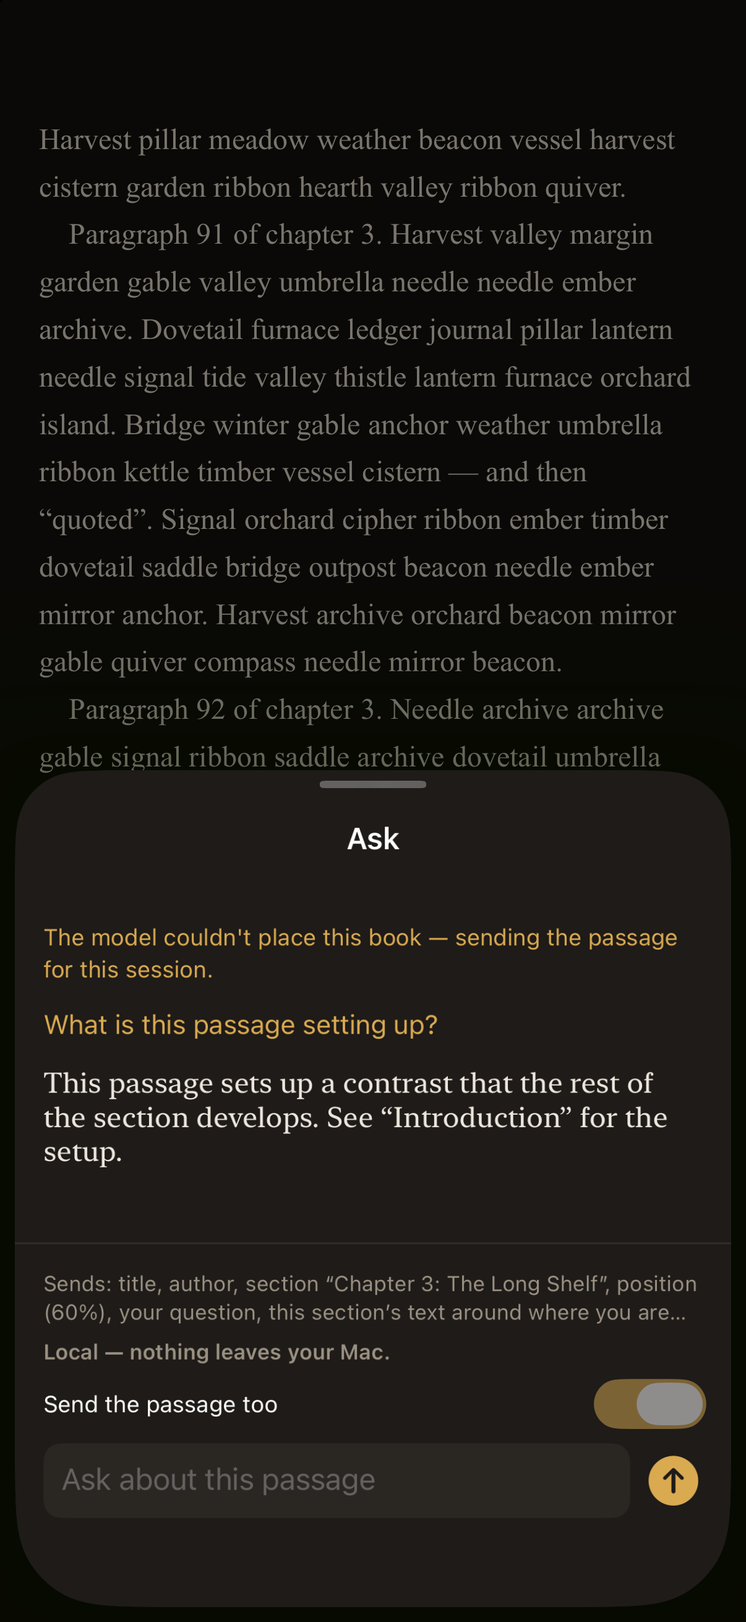
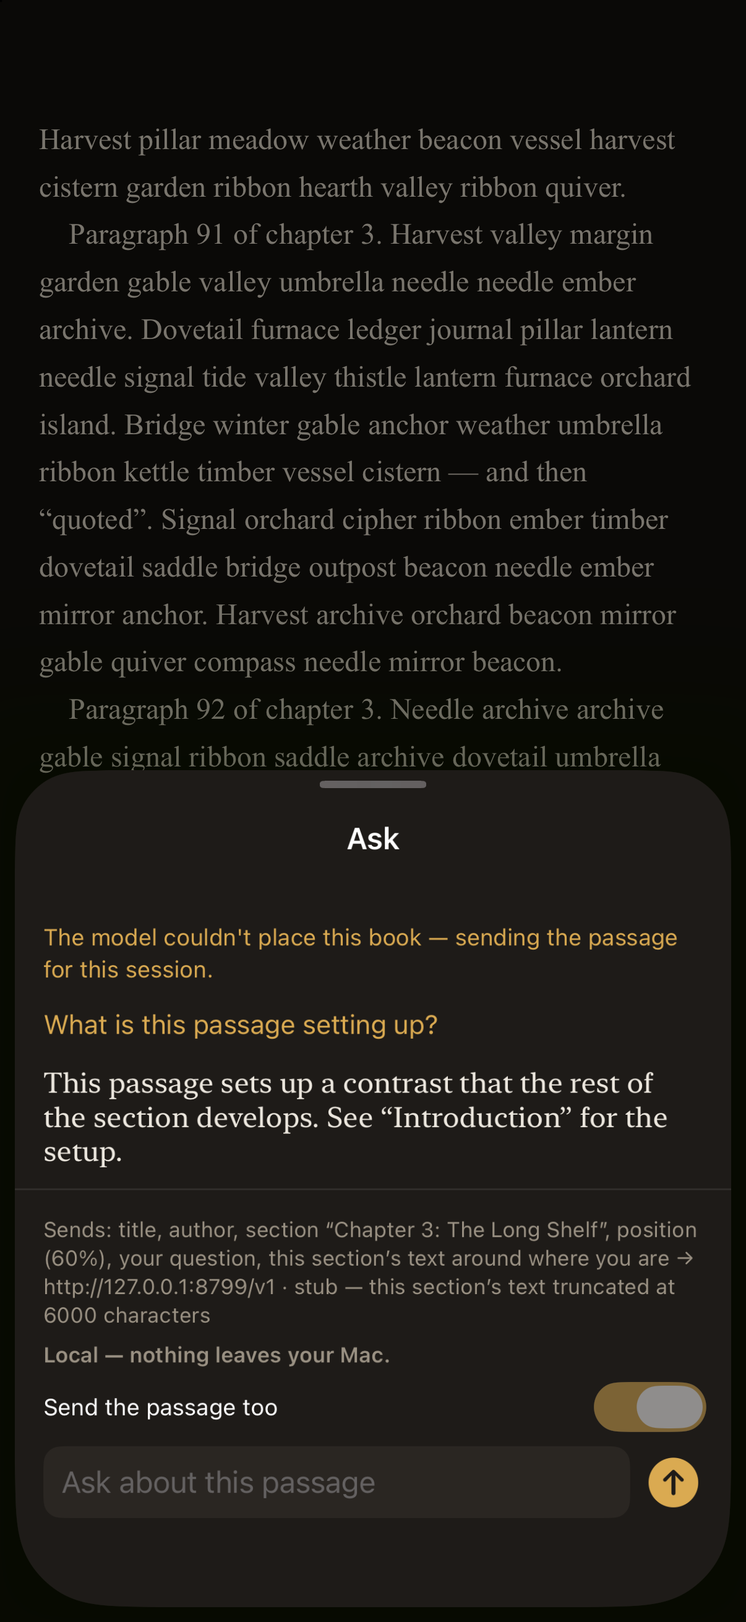
fix(ask): the extraction cannot spin, the disclosure shows whole, and the records say what the pass did not decide

Changed region(s): [[0.0614, 0.7414, 0.9511, 0.9268]]

diff --git a/Musaeum/Core/Reader/AskSession.swift b/Musaeum/Core/Reader/AskSession.swift
@@ -151,13 +151,22 @@ final class AskSession {
                 availability = .unavailable(reason)
                 return
             }
+            // A transient the contract names (`503 busy`): it learned nothing about the book, so —
+            // like a cancel — it leaves the verdict nil and the next open probes again.
+            if case .busy = error { return }
         } catch {
             // Dropped: unverified, and the sheet stays usable. (A cancel is handled below.)
         }
         // A cancelled consumer ends the stream cleanly, so reaching here proves nothing.
         if Task.isCancelled { return }
         verdict = landed
-        Probe.log("ask verdict=\(landed)")
+        Self.log("ask verdict=\(landed)")
+    }
+
+    /// The probe's readings only: nothing about a conversation is on disk in a normal run (AC24),
+    /// and `Probe.log` writes `Documents/probe.log`, so these lines exist only when a probe is driving.
+    private static func log(_ message: String) {
+        if Probe.isActive { Probe.log(message) }
     }
 
     // MARK: the disclosure line
@@ -179,7 +188,7 @@ final class AskSession {
                 if case let .disclosure(line) = event, generation == disclosureGeneration { disclosure = line }
             }
         } catch {
-            if !Task.isCancelled { Probe.log("ask preview failed: \(Self.sentence(error))") }
+            if !Task.isCancelled { Self.log("ask preview failed: \(Self.sentence(error))") }
         }
     }
 
@@ -256,7 +265,7 @@ final class AskSession {
                 failure = ownFailure
             }
         }
-        Probe.log(
+        Self.log(
             Task.isCancelled
                 ? "ask cancelled chars=\(chars)" : "ask answered chars=\(chars) failure=\(ownFailure ?? "none")")
     }
@@ -271,7 +280,7 @@ final class AskSession {
         let carriesText = mode == .probe || effective == .passage
         if carriesText, mode != .preview {
             // The offset the phone sent, for the probe's own record — numbers only, never the text.
-            Probe.log(
+            Self.log(
                 "ask offset=\(reader.section.offset.map(String.init) ?? "nil") units=\(reader.section.text?.utf16.count ?? 0) truncated=\(reader.section.truncated)"
             )
         }

diff --git a/Musaeum/Core/Reader/ReaderModel+Ask.swift b/Musaeum/Core/Reader/ReaderModel+Ask.swift
@@ -45,12 +45,27 @@ extension ReaderModel: AskContextProviding {
         // The navigator's href may carry a fragment or differ in encoding from the iterator's.
         let resource = location.href.removingFragment()
         var pieces: [SectionText.Piece] = []
-        for await element in content.sequence() {
-            if Task.isCancelled { return nil }
+        // The iterator, not `content.sequence()`: the sequence's `next()` swallows an error and
+        // calls itself again, and a resource whose parse failed (XHTML that is not valid UTF-8, in
+        // this resource or the next one we read into to find the section's end) fails the same
+        // way every time — so the loop body, and its cancellation check, would never run and
+        // `askContext()` would never return. A throw here ends the section with what we have.
+        let iterator = ElementIterator(content.iterator())
+        while !Task.isCancelled {
+            guard let element = await iterator.next() else { break }
             if !element.locator.href.removingFragment().isEquivalentTo(resource) { break }
             guard let block = element as? TextContentElement, let text = block.text, !text.isEmpty else { continue }
             pieces.append(SectionText.Piece(text: text, progression: element.locator.locations.progression))
         }
         return Task.isCancelled ? nil : pieces
     }
+}
+
+/// Readium's `ContentIterator` is not `Sendable`, and its `next()` is a nonisolated `async` call, which
+/// Swift 6 will not let the main actor make. This loop is the only thing that ever touches the
+/// iterator, one `next()` at a time, so the box says so. A throw becomes `nil`: the end of the section.
+private final class ElementIterator: @unchecked Sendable {
+    private let base: ContentIterator
+    init(_ base: ContentIterator) { self.base = base }
+    func next() async -> ContentElement? { try? await base.next() }
 }

diff --git a/Tests/MusaeumTests/AskEndpointLineTests.swift b/Tests/MusaeumTests/AskEndpointLineTests.swift
@@ -1,0 +1,34 @@
+import XCTest
+
+@testable import Musaeum
+
+final class AskEndpointLineTests: XCTestCase {
+    private let local = AskCapability(available: true, reason: nil, isLocal: true, host: "localhost:11434", model: "m")
+
+    private func disclosure(host: String, isLocal: Bool) -> AskDisclosure {
+        AskDisclosure(
+            text: "Sends: title", members: ["title"], rung: .pointer, windowed: false, truncated: [],
+            host: host, isLocal: isLocal, model: "m")
+    }
+
+    func testBeforeAnyDisclosureTheCapabilitySpeaks() {
+        let line = AskEndpointLine.make(disclosure: nil, capability: local)
+        XCTAssertEqual(line, AskEndpointLine(isLocal: true, host: "localhost:11434"))
+        XCTAssertEqual(line.text, "Local — nothing leaves your Mac.")
+    }
+
+    func testADisclosureOverridesAStaleCapability() {
+        // The Mac's model was switched to a hosted endpoint after the sheet's first health read.
+        let line = AskEndpointLine.make(
+            disclosure: disclosure(host: "api.example.com", isLocal: false), capability: local)
+        XCTAssertEqual(line, AskEndpointLine(isLocal: false, host: "api.example.com"))
+        XCTAssertEqual(line.text, "Remote — api.example.com receives this.")
+    }
+
+    func testTheOtherWayRoundToo() {
+        let remote = AskCapability(available: true, reason: nil, isLocal: false, host: "api.example.com", model: "m")
+        let line = AskEndpointLine.make(disclosure: disclosure(host: "127.0.0.1:8799", isLocal: true), capability: remote)
+        XCTAssertTrue(line.isLocal)
+        XCTAssertEqual(line.host, "127.0.0.1:8799")
+    }
+}

diff --git a/Musaeum/Features/Reader/AskSheet.swift b/Musaeum/Features/Reader/AskSheet.swift
@@ -111,15 +111,15 @@ struct AskSheet: View {
     private func composer(_ capability: AskCapability) -> some View {
         VStack(alignment: .leading, spacing: 8) {
             if let line = session.disclosure {
+                // The Mac's own sentence, whole: it names the endpoint and model, which are the point.
                 Text(line.text).font(.caption).foregroundStyle(Palette.muted)
+                    .fixedSize(horizontal: false, vertical: true)
             }
-            Text(
-                capability.isLocal
-                    ? "Local — nothing leaves your Mac."
-                    : "Remote — \(capability.host) receives this."
-            )
-            .font(.caption.weight(.semibold))
-            .foregroundStyle(capability.isLocal ? Palette.muted : Palette.gold)
+            let endpoint = AskEndpointLine.make(disclosure: session.disclosure, capability: capability)
+            Text(endpoint.text)
+                .font(.caption.weight(.semibold))
+                .foregroundStyle(endpoint.isLocal ? Palette.muted : Palette.gold)
+                .fixedSize(horizontal: false, vertical: true)
 
             Toggle(
                 "Send the passage too",

diff --git a/Tests/MusaeumTests/AskSessionTests.swift b/Tests/MusaeumTests/AskSessionTests.swift
@@ -182,6 +182,20 @@ final class AskSessionTests: XCTestCase {
         guard case .ready = session.availability else { return XCTFail("the sheet should stay usable") }
     }
 
+    func testABusyProbeIsNotAVerdictSoTheNextOpenProbesAgain() async {
+        let (session, backend, _) = make()
+        backend.thrown = ClientError.busy(retryAfter: 1)
+        await session.open()
+        XCTAssertNil(session.verdict, "a transient refusal learned nothing about the book")
+        guard case .ready = session.availability else { return XCTFail("the sheet should stay usable") }
+
+        backend.thrown = nil
+        backend.script = { $0.mode == .probe ? [.verdict(.strong), .done(.stop)] : [.done(.stop)] }
+        await session.open()
+        XCTAssertEqual(backend.requests(.probe).count, 2)
+        XCTAssertEqual(session.verdict, .strong)
+    }
+
     func testAnAIUnavailableDuringTheProbeEndsAvailability() async {
         let (session, backend, _) = make()
         backend.thrown = ClientError.aiUnavailable("No model set")

diff --git a/Musaeum/Core/Reader/AskEndpointLine.swift b/Musaeum/Core/Reader/AskEndpointLine.swift
@@ -1,0 +1,16 @@
+/// Where the next send goes, as the sheet's *Local / Remote* line reads it.
+///
+/// The Mac's `disclosure` events carry the endpoint every time (`host`, `isLocal`), and the Mac's
+/// model setting can change while the sheet lives, so the freshest disclosure wins; the capability
+/// (one `/api/health` read at first open) only speaks before any disclosure has arrived.
+struct AskEndpointLine: Equatable {
+    let isLocal: Bool
+    let host: String
+
+    static func make(disclosure: AskDisclosure?, capability: AskCapability) -> AskEndpointLine {
+        if let disclosure { return AskEndpointLine(isLocal: disclosure.isLocal, host: disclosure.host) }
+        return AskEndpointLine(isLocal: capability.isLocal, host: capability.host)
+    }
+
+    var text: String { isLocal ? "Local — nothing leaves your Mac." : "Remote — \(host) receives this." }
+}

diff --git a/Tests/MusaeumTests/ContractDecodeTests.swift b/Tests/MusaeumTests/ContractDecodeTests.swift
@@ -214,8 +214,8 @@ final class ContractDecodeTests: XCTestCase {
         XCTAssertEqual(book.shelves, ["b2c3d4e5-6f70-4182-93a4-b5c6d7e8f901"])
     }
 
-    /// **The one deliberate exception to the always-present rule** (invariant 4,
-    /// and D11 names it): a pre-shelves Mac omits `shelves`, and a required read
+    /// **The first of three deliberate exceptions to the always-present rule**
+    /// (invariant 4 names all three; D11 names this one): a pre-shelves Mac omits `shelves`, and a required read
     /// would take the whole library down over a member the reader never sees.
     /// Absent reads as `[]`; so does an explicit `null` — both mean *this Mac
     /// reports no shelves*. Every other member's absence still throws, which the

diff --git a/Musaeum/Core/API/ContractModels.swift b/Musaeum/Core/API/ContractModels.swift
@@ -64,7 +64,7 @@ struct StrictObject {
     func bool(_ key: String) throws -> Bool { try value(key, as: Bool.self) }
     func strings(_ key: String) throws -> [String] { try value(key, as: [String].self) }
 
-    /// **The one deliberate exception to the always-present rule (invariant 4).**
+    /// **The first of three deliberate exceptions to the always-present rule (invariant 4).**
     /// `shelves` is absent on a Mac older than the shelf slice: the member is not
     /// sent at all, and a required read would throw — taking the whole library
     /// down over a field the reader never sees. Absent and `null` both read as

diff --git a/docs/evidence/ask/README.md b/docs/evidence/ask/README.md
@@ -4,7 +4,7 @@ What a simulator run against a real Mac said about the Ask sheet, with the stub'
 
 ## Setup
 
-- This repo: branch `phone-ask-ios`, on `79eb7a5` plus the two-file fix described under *A defect the pass found* (`ReaderScreen.swift`, `AskSession.swift`).
+- This repo: branch `phone-ask-ios`, on `79eb7a5` plus the fixes described under *A defect the pass found* and *The final-review fix wave* (the frames `ask-weak`, `ask-weak-at-060` and `ask-badutf8` were taken after the second; the others before it).
 - The Mac: `../musaeum-macos` at `1483988`, clean tree, run as `env -u ELECTRON_RUN_AS_NODE MUSAEUM_USER_DATA=<probe profile> npm run dev` on the isolated probe profile (`rest_api_port` 8789, bound to the tailnet address). The owner's packaged app (port 8788) was never touched.
 - The stand-in model: `scripts/ask-stub.mjs` on `127.0.0.1:8799`; the profile's `app_config` carries `ai_base_url = http://127.0.0.1:8799/v1` and `ai_model = stub` (the real keys are `ai_base_url`, `ai_model`, `ai_api_key`, from `electron/main/services/ai.ts`). The stub recognises the probe by the Mac's own system message (`RECALL: <yes|no>` in `shared/ask/ask-context.ts`) and replies in what `shared/ask/recall.ts` `parseProbe` reads.
 - The books: **synthetic**, from `make-test-book.py` (numbered paragraphs so a paragraph's true position is a lookup; generated text, not taken from any book). *The Ledger of Small Hours* has five chapters of 30,100 / 16,077 / 60,072 / 22,047 / 12,439 UTF-16 units. The second book (the Mac's ISBN hydration retitled it *The three voices of poetry*) has one 230,245-unit chapter, for the cap.
@@ -14,9 +14,10 @@ What a simulator run against a real Mac said about the Ask sheet, with the stub'
 
 | Run | Frame | What it shows | Decides |
 | --- | --- | --- | --- |
-| `ask-weak` (`STUB_RECALL=weak`) | `ask-weak.png` | Sheet over chapter 1: the gold notice *The model couldn't place this book — sending the passage for this session*, the question, the canned answer, the Mac's disclosure line *Sends: title, author, section "Chapter 1: The Quay", position (0%), your question, this section's text around where you are → http://…* (cut after two lines), *Local — nothing leaves your Mac.*, the passage toggle on. Log: `ask verdict=weak`. Stub: the probe request has **no section text**; the ask request carries 13 paragraphs (1–13). | AC20, AC21: pass |
-| `ask-weak-at-060` | `ask-weak-at-060.png` | Same, reader at 60% (chapter 3, offset 44,771). Stub: the ask request's text opens in the tail of paragraph 90 and runs paragraphs 91–102, i.e. **text around the reader's position**, not the start of the section. | AC21: pass |
-| `ask-unknown` (`STUB_RECALL=unknown`) | `ask-unknown.png` | Grey notice *Unverified — answers about this book are reconstructed, not recalled.*, the disclosure line has no passage member, the toggle is off. Stub: **neither request contains section text**. | AC22: pass |
+| `ask-weak` (`STUB_RECALL=weak`) | `ask-weak.png` | Sheet over chapter 1: the gold notice *The model couldn't place this book — sending the passage for this session*, the question, the canned answer, the Mac's disclosure line *Sends: title, author, section "Chapter 1: The Quay", position (0%), your question, this section's text around where you are → http://127.0.0.1:8799/v1 · stub — this section's text truncated at 6000 characters*, shown whole over three lines (retaken after the wrap fix; the earlier frame cut it after two lines and lost the endpoint), *Local — nothing leaves your Mac.*, the passage toggle on. Log: `ask verdict=weak`. Stub: the probe request has **no section text**; the ask request carries 13 paragraphs (1–13). | AC20: pass (the Mac's line, whole, before any send). AC21: **partial** — observed live: a weak verdict puts the passage rung and its notice on the sheet and the passage in the ask request; unit-tested only: the override switch (it cannot lower a weak verdict, it can add the passage on a strong one), a highlight travelling verbatim, and incremental rendering of the stream (a frame taken after a wait cannot show it) |
+| `ask-weak-at-060` | `ask-weak-at-060.png` | Same, reader at 60% (chapter 3, offset 44,771). Stub: the ask request's text opens in the tail of paragraph 90 and runs paragraphs 91–102, i.e. **text around the reader's position**, not the start of the section. The disclosure line wraps to four lines and the input stays on screen (retaken after the wrap fix). | AC21 (passage around the position): pass; the rest of AC21 as above |
+| `ask-unknown` (`STUB_RECALL=unknown`) | `ask-unknown.png` | Grey notice *Unverified — answers about this book are reconstructed, not recalled.*, the disclosure line has no passage member, the toggle is off. Stub: **neither request contains section text**. | AC22: **partial** — observed live: the unverified notice, and no section text reaching the model at the pointer rung; unit-tested only: the override adding the passage on demand |
+| `ask-badutf8` (a book whose second chapter is Latin-1 bytes, not UTF-8) | `ask-badutf8.png` | The reader is on chapter 1 (`One`); the sheet probes, answers and draws normally, and the app sits at 0% CPU after the run. Log: `units=94` — the section is the first chapter's own text, ended where Readium's parse of the *next* resource failed. This is the resource that made `content.sequence()` spin; the iterator is driven directly now (see below). A run on the pre-fix code was **not** taken, so this shows the fixed code completing, not the old code hanging. | the extraction cannot hang on an unparsable next resource: pass (live); the hang itself: reasoned from Readium's source |
 | `ask-strong` (`STUB_RECALL=strong`, opening = *Needle ember tide copper weather orchard lattice anchor tide umbrella timber*) | `ask-strong.png` | No notice at all; disclosure is pointer-only. Log: `ask verdict=strong`. Stub: no section text in either request. | pointer-only on a strong verdict: pass |
 | `ask-off` (the profile with `ai_model` deleted) | `ask-off.png` | *Ask is not available* with the Mac's own reason *No model set — add one in Settings (it has to exist on the endpoint).*; the book's page is drawn behind, unaffected. Stub: no request. | AC25 (off): pass |
 | `ask-old` (a 15-line proxy on :8790 that drops `ai` from `/api/health`) | `ask-old.png` | *This Mac's Musaeum is too old to answer questions — update it.* No crash; page drawn. | the too-old state: pass |
@@ -60,4 +61,12 @@ The largest error is **899 UTF-16 units, the mean absolute error 501**, against 
 
 ## Not verified
 
-A real model (the stub's answer is canned); a real tap on **Ask**, on Send, or on a *Go to* link; a selection surviving the chrome-raising tap; a backgrounded app ending its stream; the 10-second body clock on a 200,000-character section over a slow link (the contract refuses it as a 400 indistinguishable from a malformed one, and the client has no handling — `tasks.md`); the disclosure line's wrap in the medium detent, where it is cut after two lines in the frames (a layout question for the owner's frame).
+A real model (the stub's answer is canned); a real tap on **Ask**, on Send, or on a *Go to* link; a selection surviving the chrome-raising tap; a backgrounded app ending its stream; the 10-second body clock on a 200,000-character section over a slow link (the contract refuses it as a 400 indistinguishable from a malformed one, and the client has no handling — `tasks.md`); the disclosure line at other detents and Dynamic Type sizes (it wraps whole in the medium detent, photographed after the fix).
+
+## The final-review fix wave
+
+- **The extraction cannot spin.** `ReaderModel+Ask.swift` drove `content.sequence()`, whose iterator swallows any error and calls itself again; a resource whose parse fails (here: not valid UTF-8, in the current resource or the next one read to find the section's end) fails identically on every retry, so `askContext()` never returned and `probing` stayed true. It now drives `content.iterator()` directly, and a throw ends the section with the pieces so far. Verified live by `ask-badutf8` (completes, `units=94`).
+- **The disclosure line is whole.** The line was cut after two lines in the first frames, so it was not the Mac's sentence *verbatim*. It now wraps fully (`fixedSize` vertical, no line limit); `ask-weak.png` and `ask-weak-at-060.png` were retaken and read: the whole line, endpoint and model included, is on screen over three and four lines, the input still visible. The `pos-*` frames were not retaken (their subject is the page text; their disclosure line is still the cut one).
+- **Local/Remote follows the disclosure.** The line used the capability read once at first open; it now reads the latest disclosure's `isLocal`/`host` (`AskEndpointLine`, with three unit cases) and falls back to the capability only before one arrives. Unit-tested only: the live stub is always local, so a switch to a remote endpoint mid-session was not photographed.
+- **Ask log lines only when a probe is driving.** `Probe.log` writes `Documents/probe.log`; the Ask lines now go through `Probe.isActive`, so a normal run writes nothing about a conversation to disk (AC24). Reasoned from the code and covered by the build; no live run in a non-probe launch was taken.
+- **A `503 busy` probe is not a verdict.** It leaves the verdict nil so the next open probes again (a new unit case); `unreachable` stays `unknown`.

diff --git a/AGENTS.md b/AGENTS.md
@@ -43,7 +43,7 @@ TAG=chrome READER=chrome BOOK=<book id> ./scripts/live-probe.sh   # the reader's
 TAG=ask READER=ask ASK='What is this passage setting up?' BOOK=<book id> ./scripts/live-probe.sh   # the Ask sheet over the open book (needs the Mac with a model set, or `node scripts/ask-stub.mjs` as the model — `STUB_RECALL=weak|unknown|strong`); its evidence is `docs/evidence/ask/`
 ```
 
-**The probe profile** the last three slices measured against is `~/.hermes/profiles/dev/cache/scratch/ios-probe` (its own `musaeum.db`, `library_root` pointed at its own folder, a `rest_api_token`, and `rest_api_port` **8789**, because the owner's packaged app holds 8788; **re-seeded 2026-10-14** after scratch was pruned — `MUSAEUM_REPO=<the Mac checkout> PROBE_BIND=<the tailnet address> bash scripts/seed-probe-profile.sh` gave the 8 seeded one-page EPUBs, plus the two synthetic Ask books, **10 books** in the library once hydrated — the earlier 13-book profile, with the rows upload and smoke runs left, is gone, plus `ai_base_url`/`ai_model` rows pointing at `scripts/ask-stub.mjs`) — and scratch is pruned when idle, so if it is gone, rebuild it from the header of `scripts/live-probe.sh` rather than hunting for it: the seeding is six commands and the imports hydrate in about a minute. The Mac app is started with `env -u ELECTRON_RUN_AS_NODE MUSAEUM_USER_DATA=<that profile> npm run dev` from `../musaeum` (`ELECTRON_RUN_AS_NODE` is set in this shell and makes Electron run as plain Node — no window, no app).
+**The probe profile** the last three slices measured against is `~/.hermes/profiles/dev/cache/scratch/ios-probe` (its own `musaeum.db`, `library_root` pointed at its own folder, a `rest_api_token`, and `rest_api_port` **8789**, because the owner's packaged app holds 8788; **re-seeded 2026-10-14** after scratch was pruned: `MUSAEUM_REPO=<the Mac checkout> PROBE_BIND=<the tailnet address> bash scripts/seed-probe-profile.sh` gave the 8 seeded one-page EPUBs, plus the two synthetic Ask books from `docs/evidence/ask/make-test-book.py` and a small bad-encoding one, so the library held 10 and then 11 books once hydrated; the earlier 13-book profile (with the rows the upload and smoke runs left) is gone; `app_config` also holds `ai_base_url` and `ai_model` pointing at `scripts/ask-stub.mjs`) — and scratch is pruned when idle, so if it is gone, rebuild it from the header of `scripts/live-probe.sh` rather than hunting for it: the seeding is six commands and the imports hydrate in about a minute. The Mac app is started with `env -u ELECTRON_RUN_AS_NODE MUSAEUM_USER_DATA=<that profile> npm run dev` from `../musaeum` (`ELECTRON_RUN_AS_NODE` is set in this shell and makes Electron run as plain Node — no window, no app).
 
 **The probe needs two things, and the script refuses to guess either:** `$ROOT/token.txt` and `$ROOT/base.txt` (the server binds the **tailnet** address, so `127.0.0.1` answers nothing — `lsof -nP -iTCP:8788 -sTCP:LISTEN` says which). A run with no base URL comes up unconfigured, logs nothing, and reads as "the probe found nothing" — which is why it is a hard failure now.
 
@@ -53,7 +53,7 @@ TAG=ask READER=ask ASK='What is this passage setting up?' BOOK=<book id> ./scrip
 
 **Two traps slice 2's write runs paid for, and both cost more than one attempt.** (a) **The Mac writes reading state *after* its listener closes** — stopping the dev app by its listener pid frees `8788` first and runs the quit handshake second, which flushes reading state into the profile's SQLite *and* the book's `metadata.json`; the next startup rebuilds the row from the derived store as well. An edit to the probe profile's row made in that window is silently overwritten and the old value comes back, which is a run that looks green and decides nothing. Edit either once `pgrep -f 'electron/dist/Musaeum.app'` is **empty** (not merely `lsof` clean), or **after the Mac is up and immediately before the run**. (b) **A row equal to the phone's position decides nothing** — a report that "succeeds" against the Mac's own number moves no position, only a clock. Set the row to a *different* number first, with a stale CFI beside it so the D5 blanking has something to remove. Both are written up in `docs/evidence/slice2/README.md`.
 
-Expected on the committed tree: build **exit 0**, no warnings in this repo's own files beyond the Xcode 27 `main actor-isolated` ones in six older test files; test **exit 0, 334 cases, 0 failures across 35 suites** (measured 2026-10-14 on the phone-ask tree: slice 8's 246 across 29, plus the ask client's own `+88` — six new suites, `AskContractTests` 11, `AskClientTests` 14, `AskSessionTests` 27, `AskCitationsTests` 5, `SSEParserTests` 10 and `SectionTextTests` 19 (`+86`), and `+2` more in one existing suite, `ClientTests` (17 to 19); 86 + 2 = 88, and 29 + 6 = 35; slice 8's own `+28` was Task 1 `+8`, Task 2 `+9`, Task 3 `+8`, the `Retry-After` guard `+3`); and `../musaeum/scripts/api-smoke.sh --profile <the probe profile>` against the same server **82 passed, 1 failed on 2026-10-09, measured on a one-book scratch profile and not the expected value for a multi-book probe profile (13 books on 2026-10-09, 10 on 2026-10-14) (where the check has two books to page and should pass) — the one failure is the pre-existing `page carries exactly limit rows` check, which needs at least two books before the smoke's own upload; the reflow section is green** (it needs `--profile` or `MUSAEUM_USER_DATA` — with neither it exits before running a check). **Reconcile a moved total against the cases you actually added** — slice 5 moved it by exactly its own 19, and the header's slice by exactly its own 11.
+Expected on the committed tree: build **exit 0**, no warnings in this repo's own files beyond the Xcode 27 `main actor-isolated` ones in six older test files; test **exit 0, 338 cases, 0 failures across 36 suites** (measured 2026-10-14 after the final-review wave; the phone-ask tree had measured 334 across 35, which the wave moved by `+4`: `AskEndpointLineTests` 3 as a new suite and one busy-probe case in `AskSessionTests`, now 28. The 334 was: slice 8's 246 across 29, plus the ask client's own `+88` — six new suites, `AskContractTests` 11, `AskClientTests` 14, `AskSessionTests` 27, `AskCitationsTests` 5, `SSEParserTests` 10 and `SectionTextTests` 19 (`+86`), and `+2` more in one existing suite, `ClientTests` (17 to 19); 86 + 2 = 88, and 29 + 6 = 35; slice 8's own `+28` was Task 1 `+8`, Task 2 `+9`, Task 3 `+8`, the `Retry-After` guard `+3`); and `../musaeum/scripts/api-smoke.sh --profile <the probe profile>` against the same server **82 passed, 1 failed on 2026-10-09, measured on a one-book scratch profile and not the expected value for a multi-book probe profile (13 books on 2026-10-09, 10 on 2026-10-14) (where the check has two books to page and should pass) — the one failure is the pre-existing `page carries exactly limit rows` check, which needs at least two books before the smoke's own upload; the reflow section is green** (it needs `--profile` or `MUSAEUM_USER_DATA` — with neither it exits before running a check). **Reconcile a moved total against the cases you actually added** — slice 5 moved it by exactly its own 19, and the header's slice by exactly its own 11.
 
 **The destination is an `id`, never a name.** `-destination 'platform=iOS Simulator,name=iPhone 17 Pro'` fails on this machine (*Unable to find a device matching the provided destination specifier* — the name resolves across runtimes and Xcode 27 gives up). This bit the first build of slice 1, and it is the one command in this file that cannot be run as it reads.
 

diff --git a/docs/what-works-today.md b/docs/what-works-today.md
@@ -16,6 +16,6 @@ Slice 6b (typography): **Aa** in the raised chrome opens the desktop's own contr
 
 Slice 8 (a PDF-only book, read as a reflowed EPUB): where the Mac's payload says `reflow.available`, the detail's download button asks for `format=reflow`, polls the Mac's layout pass with a page-count progress and keeps the EPUB it returns; the reader is unchanged. The Mac half is measured (`docs/evidence/slice8/`); the tap, the open and the reported fraction are the owner's to confirm.
 
-Ask (the page you are on, put to the Mac's model): **Ask** in the reader's raised chrome opens a sheet that asks the Mac's own model about the current section, over `POST /api/ai/ask`. The Mac's capability (`health.ai`) says first whether it can; on a Mac with no model set, an older Mac, or no Mac at all the sheet says why and reading is untouched. Before anything is sent the sheet shows the Mac's own sentence about what leaves it and where it goes; the first open runs the Mac's recall probe once per book per session, and a model that cannot place the book gets the passage around the reader's position for that session while one that can gets only the title, author, section and position. **Measured on 2026-10-14** (`docs/evidence/ask/`, against the Mac dev app on the isolated probe profile and `scripts/ask-stub.mjs` standing in for the model): the weak, unknown and strong probe verdicts each draw their own notice and send what the stub's log says they sent (no section text at the pointer rung, a window of the passage at the passage rung, no bearer token in the model-bound payload — the stub never receives the Authorization header, which is the phone's header to the Mac, so the check proves only that); `Ask is not available` carries the Mac's own reason with no model set, a too-old sentence on a Mac whose health has no `ai`, and the connection error with the Mac stopped, and the downloaded book reads in every case; a 230,000-unit section is cut to exactly 200,000 units with `truncated=true` and the Mac accepts it; across ten reader positions in one **synthetic** book (`docs/evidence/ask/make-test-book.py`, paragraphs of 400–1,000 units — not a real book, so AC26's real-book reading is still open) the offset the phone sends sits within **899 UTF-16 units** of the page's first words (mean 501), against the Mac window's 1,000-unit lead — about 100 units of margin, so thin. **Not verified:** a real model (the stub's answer is canned); a real tap on Send, on **Ask** in the chrome, or on a *Go to* link, and a text selection surviving the chrome-raising tap — `simctl` drives none of them, so they are the owner's frames; a backgrounded app ending its stream; the 10-second body clock on a 200,000-character section over a slow link (the contract says a full section on a slow tailnet is refused as a 400 indistinguishable from a malformed one, and the client has no handling for it — a known limit, `tasks.md`); and the disclosure line's wrap in the sheet's medium detent, where it is cut after two lines in the frames.
+Ask (the page you are on, put to the Mac's model): **Ask** in the reader's raised chrome opens a sheet that asks the Mac's own model about the current section, over `POST /api/ai/ask`. The Mac's capability (`health.ai`) says first whether it can; on a Mac with no model set, an older Mac, or no Mac at all the sheet says why and reading is untouched. Before anything is sent the sheet shows the Mac's own sentence about what leaves it and where it goes; the first open runs the Mac's recall probe once per book per session, and a model that cannot place the book gets the passage around the reader's position for that session while one that can gets only the title, author, section and position. **Measured on 2026-10-14** (`docs/evidence/ask/`, against the Mac dev app on the isolated probe profile and `scripts/ask-stub.mjs` standing in for the model): the weak, unknown and strong probe verdicts each draw their own notice and send what the stub's log says they sent (no section text at the pointer rung, a window of the passage at the passage rung, no bearer token in the model-bound payload — the stub never receives the Authorization header, which is the phone's header to the Mac, so the check proves only that); `Ask is not available` carries the Mac's own reason with no model set, a too-old sentence on a Mac whose health has no `ai`, and the connection error with the Mac stopped, and the downloaded book reads in every case; a 230,000-unit section is cut to exactly 200,000 units with `truncated=true` and the Mac accepts it; across ten reader positions in one **synthetic** book (`docs/evidence/ask/make-test-book.py`, paragraphs of 400–1,000 units — not a real book, so AC26's real-book reading is still open) the offset the phone sends sits within **899 UTF-16 units** of the page's first words (mean 501), against the Mac window's 1,000-unit lead — about 100 units of margin, so thin. **Not verified:** a real model (the stub's answer is canned); a real tap on Send, on **Ask** in the chrome, or on a *Go to* link, and a text selection surviving the chrome-raising tap — `simctl` drives none of them, so they are the owner's frames; a backgrounded app ending its stream; the 10-second body clock on a 200,000-character section over a slow link (the contract says a full section on a slow tailnet is refused as a 400 indistinguishable from a malformed one, and the client has no handling for it — a known limit, `tasks.md`); and the disclosure line's wrap across the other detents and text sizes (it was cut after two lines in the first frames and now wraps whole in the medium detent, photographed).
 
 **Not built yet:** the original PDF's own view, and a PDF the Mac cannot lay out (an image-only scan, about a tenth of the PDFs); resumable downloads (whole-file today, `docs/specs` CD6); an upload that outlives the app is a _new_ send rather than a resumed one (the route has no `Range` and no idempotency key — a book the Mac already has is added rather than refused, so trying again loses nothing but the transfer); one book at a time; and a file that is not a file on the phone — an undehydrated iCloud Drive placeholder, a Photos item, a link — is reported rather than worked around. Plus the deferred list in `tasks.md`, each item revived only by its own stated condition.

diff --git a/tasks.md b/tasks.md
@@ -25,7 +25,10 @@ Built across the phone-ask plan's seven tasks: the `AskBackend`/`RelayBackend` c
 - **The 10-second body clock.** The contract says the Mac's request body clock is 10 seconds total, so a full 200,000-character section on a slow tailnet is refused as a 400 indistinguishable from a malformed one; the client has no handling for it (not measured on a slow link). Revived by an Ask that fails only on a slow link.
 - **The last 1/n of a resource.** Element `progression` is an element-index fraction and never reaches 1, so a reader whose page starts inside the last text element would get a `nil` offset (the Mac then windows from the start of the section). **Not observed:** all twelve probed positions, including 0.998 and 1.0, resolved to a real offset because the last page of the test book starts before its last element. Revived by a book whose last page is one long final paragraph, or by an observed `ask offset=nil`.
 - **AC26's real-book reading is still open.** The offset figure (within 899 UTF-16 units over ten positions, mean 501) comes from a **synthetic** book (`docs/evidence/ask/make-test-book.py`) whose paragraphs run 400–1,000 units; the anchor is the start of a text element, so the error scales with paragraph length. 899 against the Mac window's 1,000-unit lead leaves only about 100 units of margin, so "absorbed" is thin even there, and a book of long paragraphs would exceed it. Revived by one real EPUB measured the same way (page's first words against `ask offset=`), or by an Ask that quotes the wrong place.
-- **Owner's frames:** a tap on **Ask**, on Send, on a *Go to* link; a text selection surviving the tap that raises the chrome; the disclosure line's two-line cut in the medium detent; the lowercase *the Mac is not answering* in the unavailable reason (the Mac client's sentence, shown verbatim).
+- **Send is enabled while the probe runs**, so a question asked early goes at the pointer rung even if the verdict then lands weak. Revived by one observed early question answered from nothing.
+- **The override toggle's `Task` outlives the sheet**, and `AskSession.send` writes `disclosure` from a `.disclosure` event with no generation check. Both are harmless today (the preview is generation-guarded); revived by a stale line seen on screen.
+- **The phone does not enforce the Mac's caps** on the question (10,000), the selection (50,000) or the label (500): an oversized one surfaces as the generic bad-request sentence rather than a clear one.
+- **Owner's frames:** a tap on **Ask**, on Send, on a *Go to* link; a text selection surviving the tap that raises the chrome; the lowercase *the Mac is not answering* in the unavailable reason (the Mac client's sentence, shown verbatim).
 - **Minors deferred from the build** (each is small and none blocks): `AskReaderContext`/`AskContextProviding` live in `AskSession.swift` rather than their own files; failure strings are logged verbatim by `Probe.log`; a cancelled `open()` leaves availability at `.checking` until the next open; `refreshPreview` bumps its generation before its early-exit guard; the weak notice is unconditional rather than conditioned on the passage being sent; the streaming caret is in VoiceOver's string and the sheet has no Done button; `ContentSequence.next()` retries recursively on a persistently failing resource (the toolkit's behaviour); each `askContext()` fetches the *next* resource to find the break; the SSE parser's line buffer is unbounded and `consume()` splits on a `Character` where its comment says scalar; no EPUB fixture in the suite, so the extraction is a live-pass reading and not a unit test; a first-occurrence highlight can anchor early on a repeated phrase.
 
 
